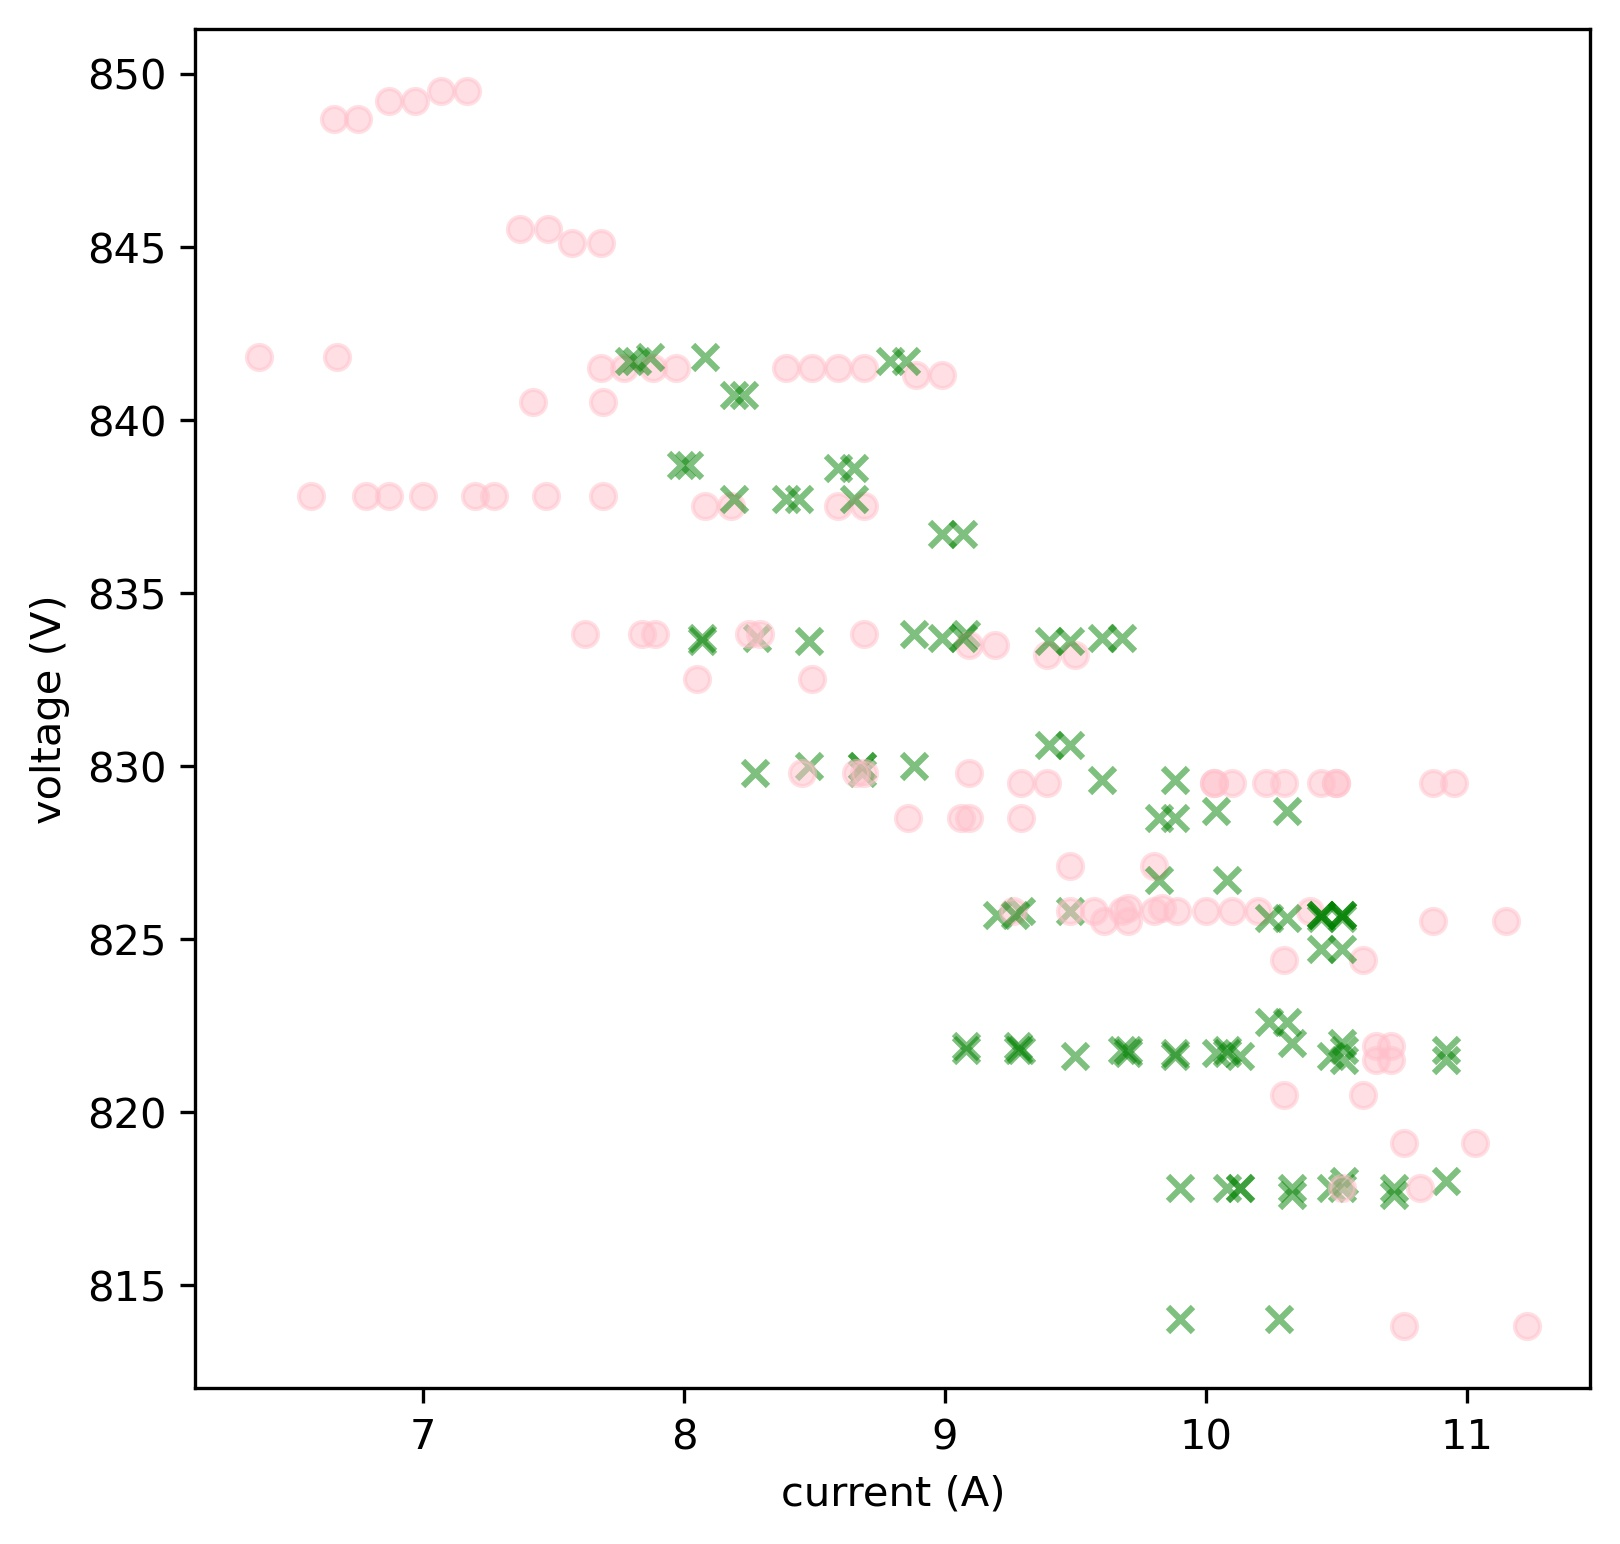
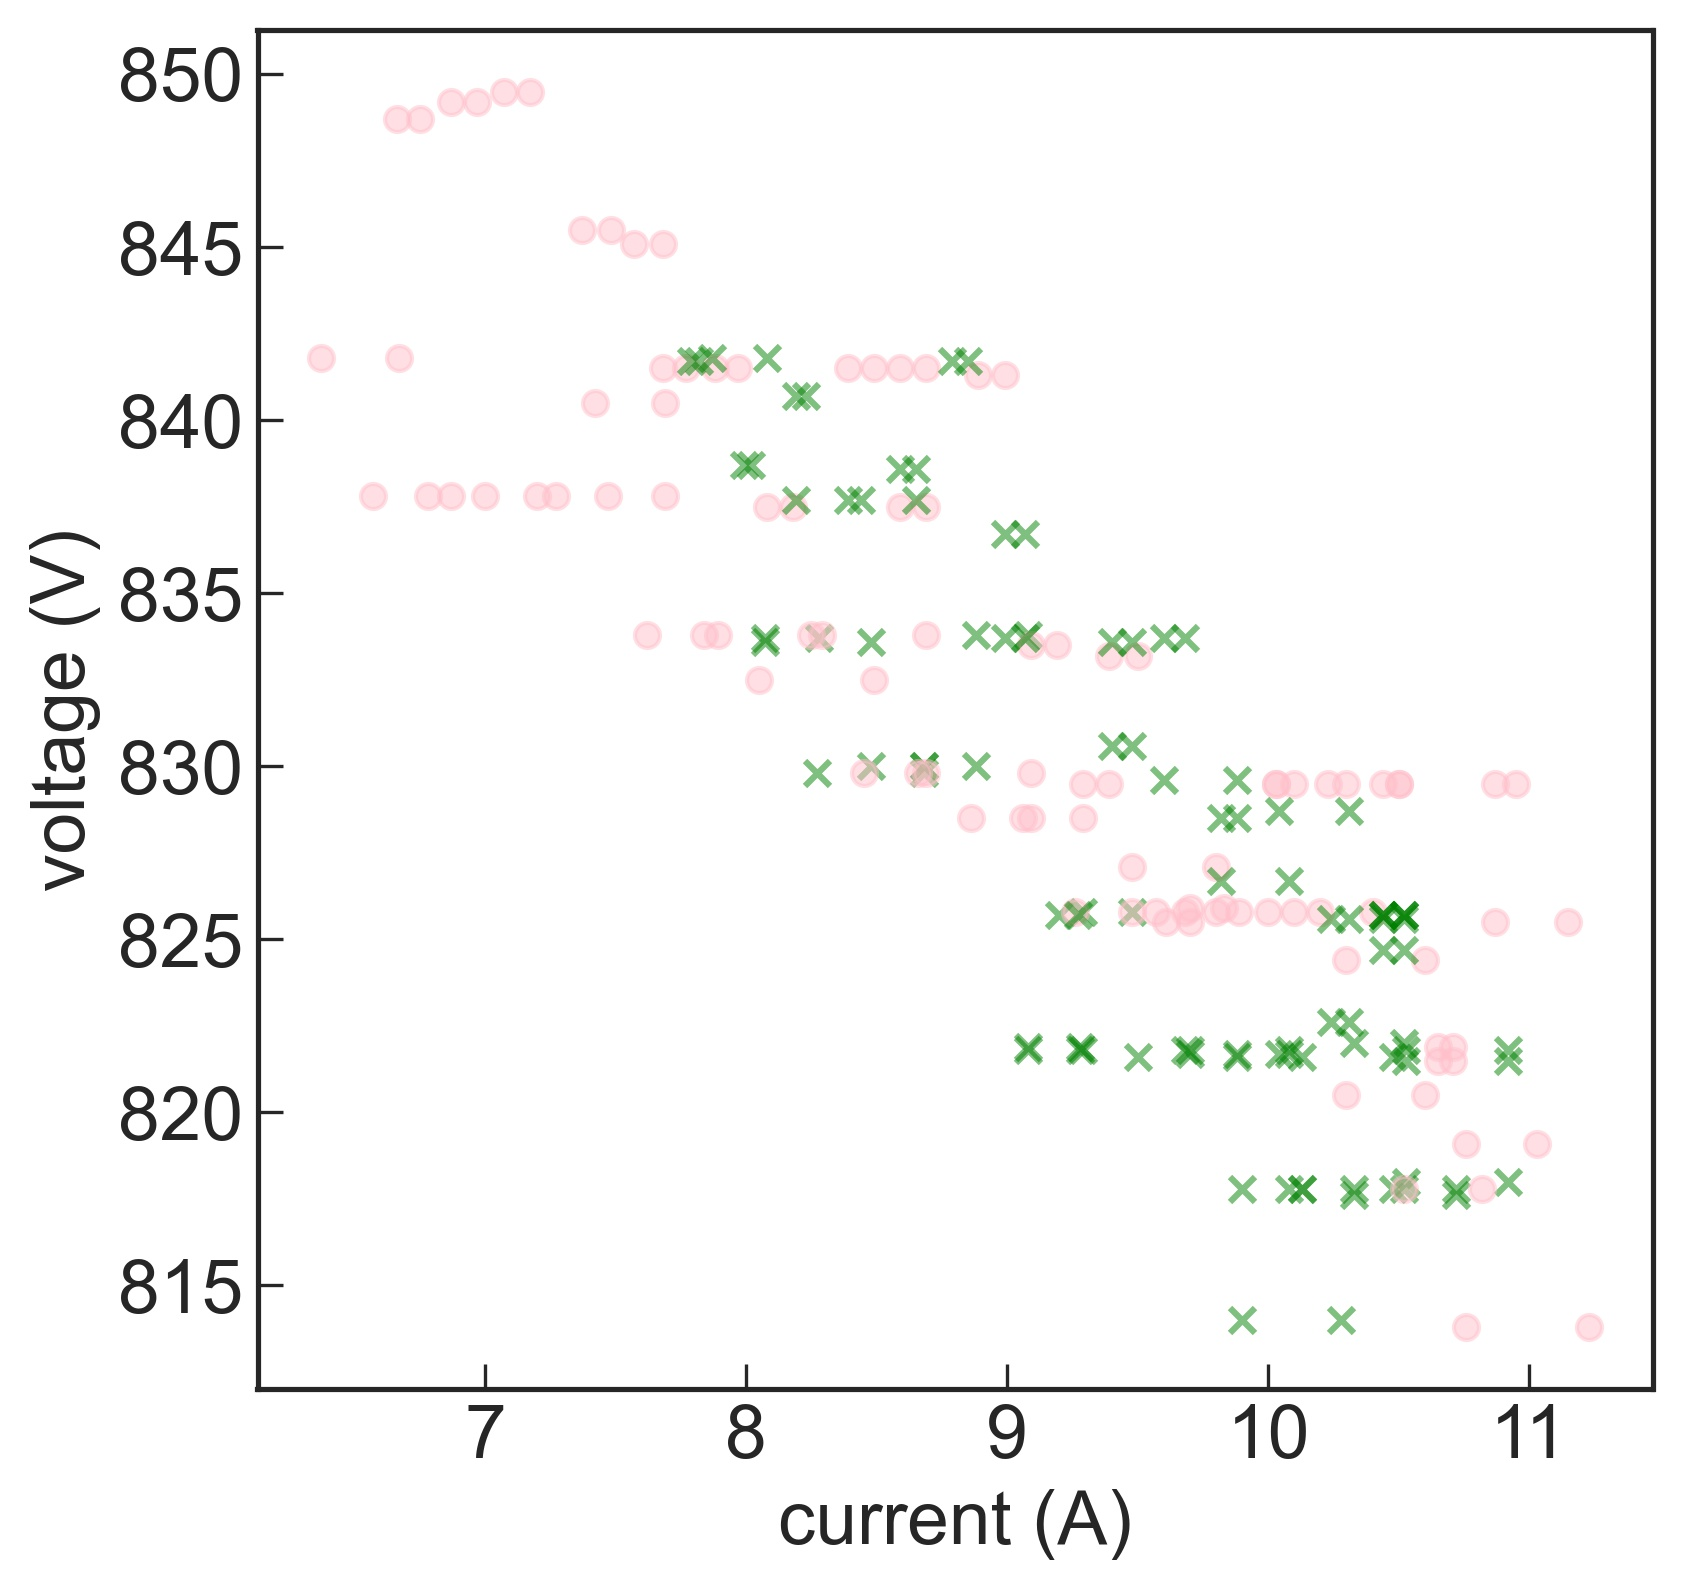
update figure paper

diff --git a/figure_paper.py b/figure_paper.py
@@ -120,6 +120,7 @@ def calculate_irradiance_bifacial(tilt,
 
 plt.figure(figsize=(16, 12))
 gs1 = gridspec.GridSpec(2, 2)
+gs1.update(wspace=0.21, hspace=0.25)
 ax0 = plt.subplot(gs1[0,0]) # daily generation
 ax1 = plt.subplot(gs1[0,1]) # monthly generation
 ax2 = plt.subplot(gs1[1,0]) # daily generation per string
@@ -164,7 +165,7 @@ ax0.set_xlim([time_index[24], time_index[264]])
 plt.setp(ax0.get_xticklabels(), ha="right", rotation=45)
 ax0.grid('--')
 ax0.text(0.05, 0.95, 'a)', 
-         fontsize=20,
+         fontsize=22,
          horizontalalignment='center',
          verticalalignment='center', 
          transform=ax0.transAxes)
@@ -195,13 +196,7 @@ ax1.bar(dc_energy_v_m['index']+0.3,
         label='vertical measured')
 ax1.yaxis.grid('--')
 ax1.set_ylim([0,9])
-ax1.legend(fontsize=14, bbox_to_anchor=(1.01, 0.3))
-
-ax2.text(0.05, 0.95, 'c)', 
-         fontsize=20,
-         horizontalalignment='center',
-         verticalalignment='center', 
-         transform=ax2.transAxes)
+ax1.legend(fontsize=22, bbox_to_anchor=(1.01, 0.5))
 
 """
 %%%%%%%%%%%%%%%%%%%%%%%%%%%%%%%%%%%%%%%%%%%%%%%%%
@@ -319,6 +314,7 @@ effective_irrad_bifi_v=calculate_irradiance_bifacial(tilt_v ,
                                                       pvrow_width_v, 
                                                       albedo, 
                                                       gcr_v)
+
 # effective_irrad_bifi_v= calculate_irradiance_poa_bifacial(tilt_v,
 #                                                           orientation_v,
 #                                                           bifaciality,                                     
@@ -480,11 +476,11 @@ ax1.set_xticklabels(['J', 'F', 'M', 'A', 'M', 'J', 'J', 'A', 'S', 'O', 'N', 'D']
 ax1.set_ylabel('DC energy (MWh)')
 
 ax1.text(0.05, 0.95, 'b)', 
-         fontsize=20,
+         fontsize=22,
          horizontalalignment='center',
          verticalalignment='center', 
          transform=ax1.transAxes)
-ax1.legend(fontsize=14, bbox_to_anchor=(1.01, 0.3))
+ax1.legend(fontsize=22, bbox_to_anchor=(1.01, 0.5))
 #sapm_inverters = pvlib.pvsystem.retrieve_sam('cecinverter')
 #inverter = sapm_inverters['ABB__MICRO_0_25_I_OUTD_US_208__208V_'] # inverter ABB-MICRO-0.25
 
@@ -527,6 +523,7 @@ ax01.plot(time_index_day,
                   color='dimgray',
                   alpha=0.7)
 ax01.set_ylim([2500,6000])
+ax01.set_yticks([])
 ax0.xaxis.set_major_formatter(mdates.DateFormatter('%H:%m'))
 
 
@@ -553,16 +550,70 @@ ax3.xaxis.set_major_formatter(mdates.DateFormatter('%H:%m'))
 ax3.set_xlim([time_index[24], time_index[264]])
 plt.setp(ax3.get_xticklabels(), ha="right", rotation=45)
 ax3.grid('--')
-ax3.legend(fontsize=14, bbox_to_anchor=(1.01, 0.3))
+ax3.legend(fontsize=22, bbox_to_anchor=(1.01, 0.5))
 
  
 ax3.text(0.05, 0.95, 'd)', 
-         fontsize=20,
+         fontsize=22,
          horizontalalignment='center',
          verticalalignment='center', 
          transform=ax3.transAxes)
 
-plt.savefig('Figures/figure_paper.jpg', 
-                dpi=100, bbox_inches='tight')
+
     
 dc_power_v_m.sum()/dc_power_t_m.sum()
+
+"""
+%%%%%%%%%%%%%%%%%%%%%%%%%%%%%%%%%%%
+
+Efficiency calculation
+%%%%%%%%%%%%%%%%%%%%%%%%%%%%%%%%%%%
+"""
+ax2.text(0.05, 0.95, 'c)', 
+         fontsize=22,
+         horizontalalignment='center',
+         verticalalignment='center', 
+         transform=ax2.transAxes)
+
+tz = 'UCT' 
+date = day[0:11]
+start_t = date + '14:00:00' 
+end_t = date + '16:00:00' 
+time_index_t = pd.date_range(start=start_t, 
+                               end=end_t, 
+                               freq='5min',  
+                               tz=tz)
+
+area = 80*2.280*1.134 #80 PV panels per inverter
+bifaciality=0.8
+
+irradiance_tilted = (data['Reference Cell Tilted facing up (W.m-2)'] +
+                     bifaciality*data['Reference Cell Tilted facing down (W.m-2)'])
+
+irradiance_vertical = (bifaciality*data['Reference Cell Vertical East (W.m-2)']
+                       + data['Reference Cell Vertical West (W.m-2)'])
+
+data['Efficiency INV-1-TBF'] = (1000/area)* data['INV-1-TBF Total input power (kW)'] / irradiance_tilted
+
+data['Efficiency INV-2-VBF'] = (1000/area)* data['INV-2-VBF Total input power (kW)'] / irradiance_vertical
+
+
+
+ax2.scatter(data['Reference Cell Tilted facing up (W.m-2)'][time_index_t],  
+            data['Efficiency INV-1-TBF'][time_index_t],  
+            color=color_t,
+            label='Efficiency vertical')
+
+ax2.scatter(data['Reference Cell Vertical West (W.m-2)'][time_index_t],  
+            data['Efficiency INV-2-VBF'][time_index_t],  
+            color=color_v,
+            label='Efficiency tilted')
+
+ax2.set_ylabel('Efficiency')
+ax2.set_xlabel('Front Plan of Array (POA) irradiance')
+ax2.grid('--')
+ax2.set_ylim([0.16, 0.21])
+ax2.legend(fontsize=22, loc='lower right') #, bbox_to_anchor=(1.4, 0.4))
+
+plt.savefig('Figures/figure_paper.jpg', 
+                dpi=100, bbox_inches='tight')

diff --git a/efficiency_analysis.py b/efficiency_analysis.py
@@ -8,7 +8,7 @@ Calculate efficiency for both systems
 import pandas as pd
 import matplotlib.pyplot as plt
 import matplotlib.gridspec as gridspec 
-date ='2023-06-11 '
+date ='2023-05-12 '
 start_date = date +'00:00:00' #day to be ploted
 tz = 'UCT' 
 start_t = date + '05:30:00' 
@@ -177,14 +177,15 @@ for i in range(1,5):
                 marker='o',
                 color='pink',
                 alpha=0.5,
-                label='row {}'.format(str(i)))
+                label='tilted row {}'.format(str(i)))
     
     ax0.scatter(data['VBF PV{} input current (A)'.format(str(i))][time_index_t2],  
                 data['VBF PV{} input voltage (V)'.format(str(i))][time_index_t2],  
                 color='green',
                 marker='x',
                 alpha=0.5,
-                label='row {}'.format(str(i)))
+                label='vertical row {}'.format(str(i)))
 ax0.set_ylabel('voltage (V)')
 ax0.set_xlabel('current (A)')
+ax0.legend(fontsize=14, bbox_to_anchor=(1.4, 0.4))
 plt.savefig('Figures/voltage_current_{}.jpg'.format(date), dpi=300, bbox_inches='tight')
